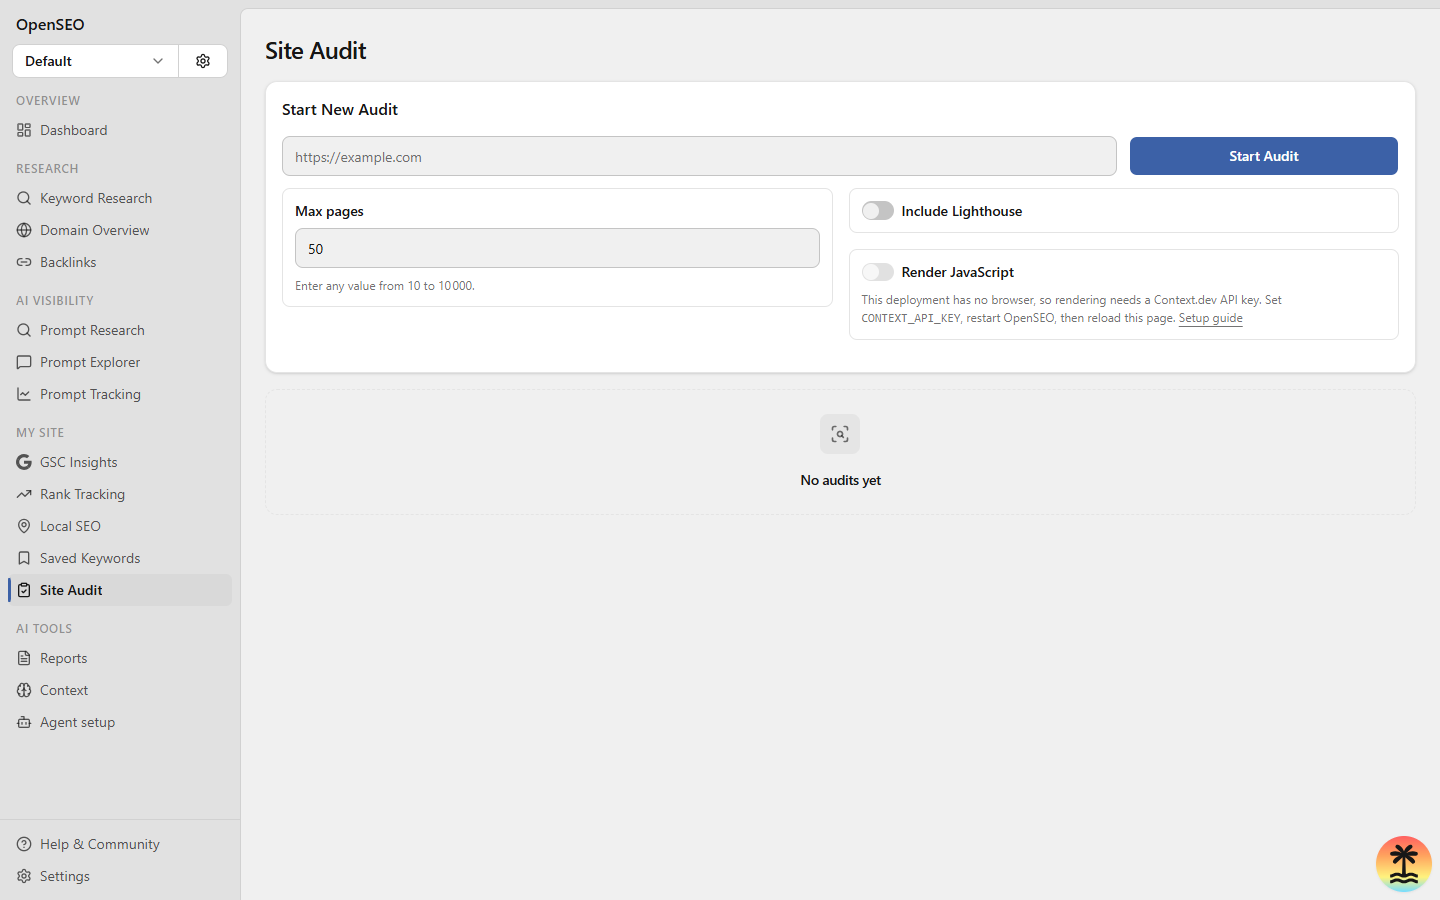
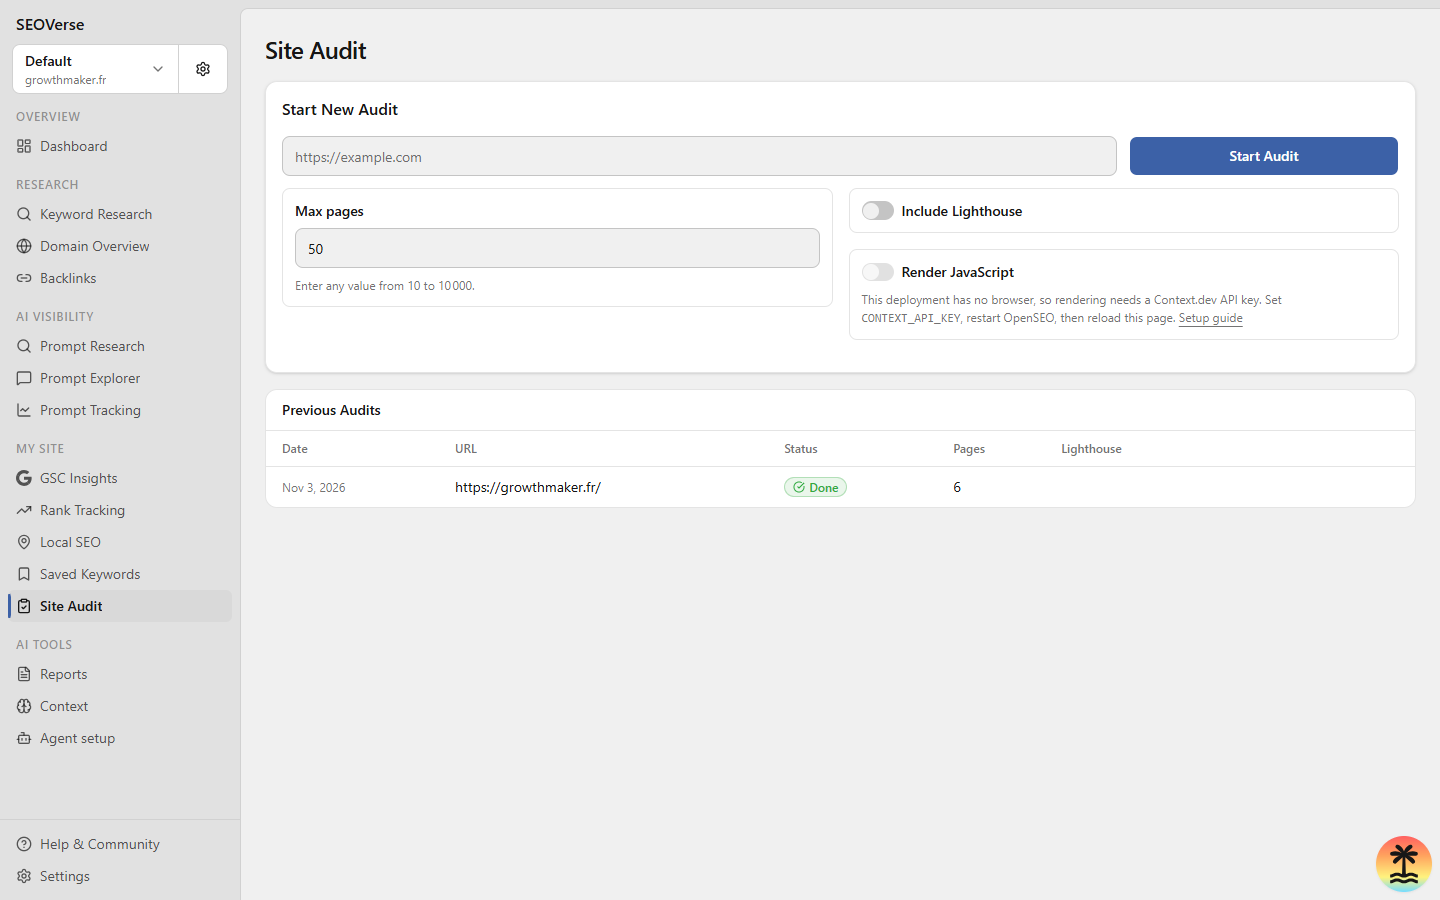
chore: rebrand project to SEOVerse

diff --git a/src/client/components/Sidebar.tsx b/src/client/components/Sidebar.tsx
@@ -152,7 +152,7 @@ export function Sidebar({
           onClick={() => setOpenMobile(false)}
           className="px-1 pb-2 text-base font-semibold text-sidebar-foreground"
         >
-          OpenSEO
+          SEOVerse
         </Link>
         <ProjectSwitcher
           activeProjectId={projectId}

diff --git a/src/routes/__root.tsx b/src/routes/__root.tsx
@@ -30,7 +30,7 @@ export const Route = createRootRoute({
   head: () => ({
     meta: [
       {
-        title: "OpenSEO",
+        title: "SEOVerse",
       },
       {
         charSet: "utf-8",

diff --git a/README.md b/README.md
@@ -1,6 +1,6 @@
-# OpenSEO
+# SEOVerse
 
-> Open source alternative to Semrush and Ahrefs
+> Open-source all-in-one SEO & AI Visibility platform for developers, indie hackers, and AI agents.
 
 OpenSEO is an SEO tool for _the people_. If tools like Semrush or Ahrefs are too expensive or bloated, OpenSEO is a pay-as-you-go alternative that you actually control.
 
